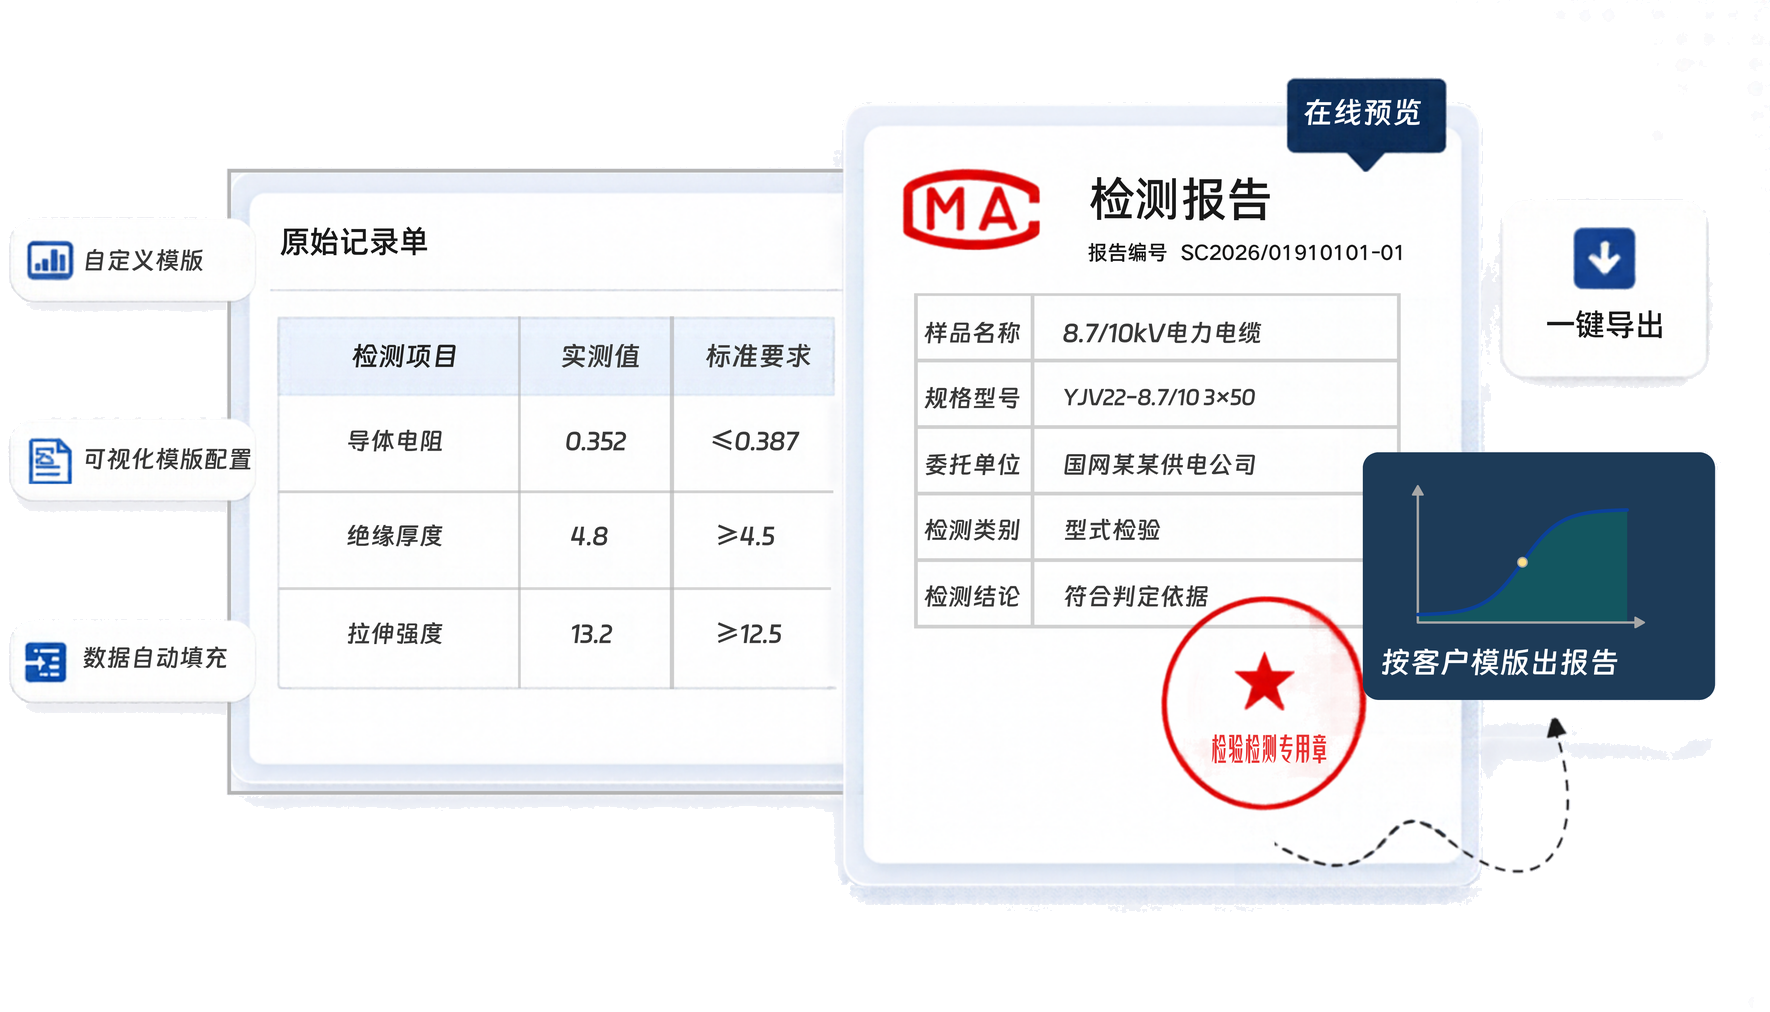
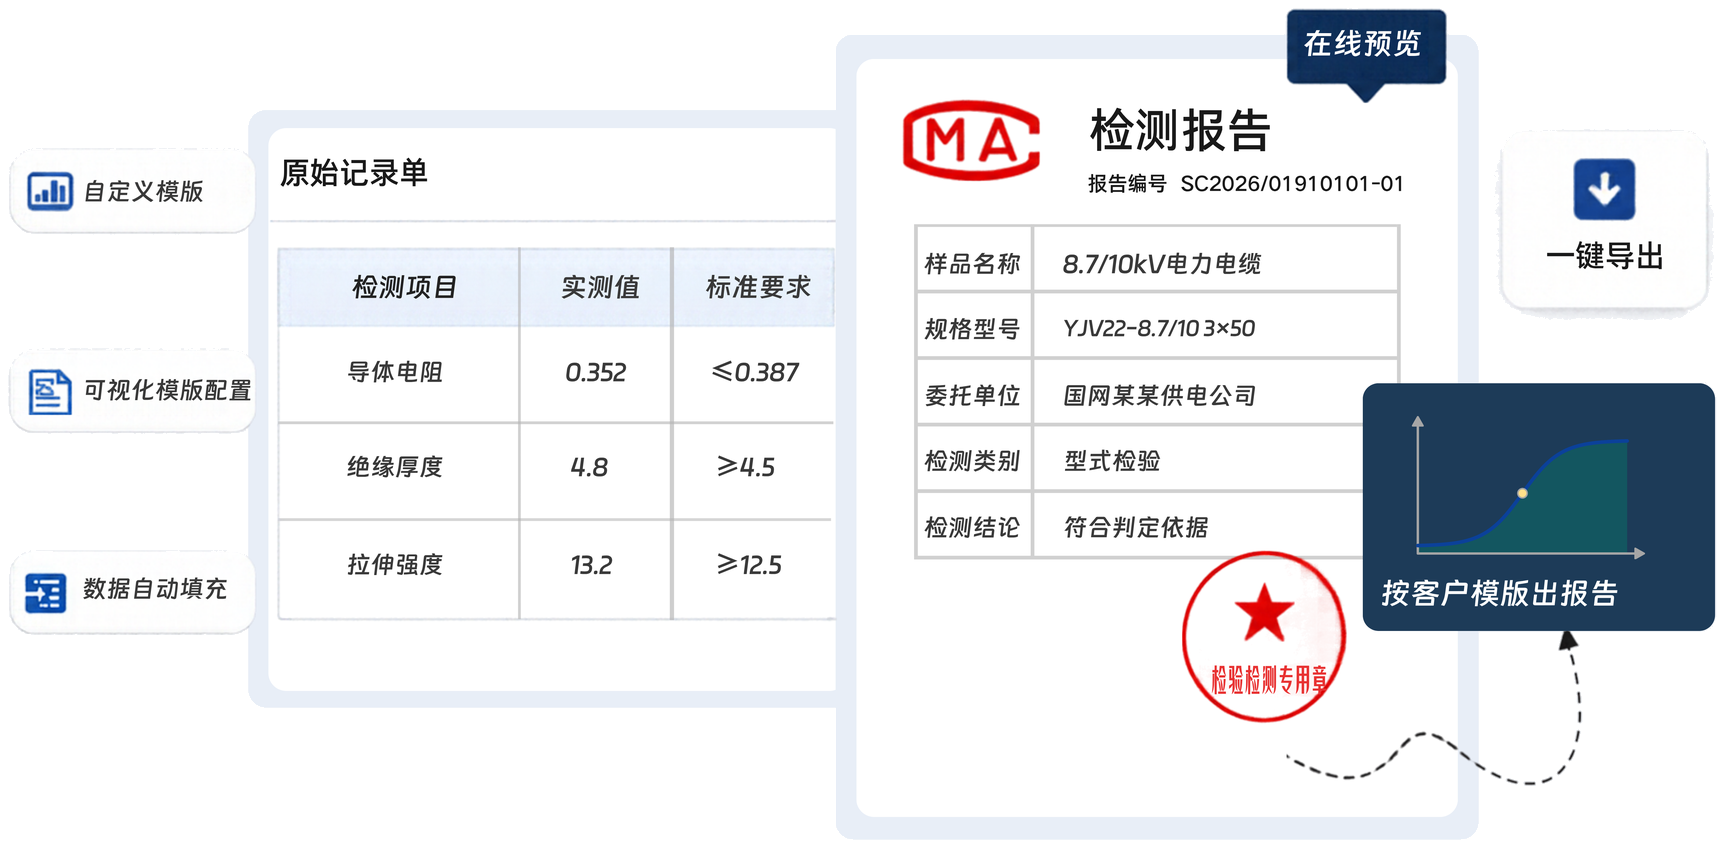
feat: 优势3换成新的记录单与报告配图

diff --git a/shucan-lims-brochure.html b/shucan-lims-brochure.html
@@ -497,7 +497,7 @@
             </ul>
           </div>
           <div class="visual">
-            <img class="illu" src="assets/brochure/14-template.png?v=svg" alt="左侧原始记录单列出导体电阻、绝缘厚度和拉伸强度。右侧检测报告带 MA 标识和检验检测专用章，并标出在线预览、一键导出和按客户模版出报告。" />
+            <img class="illu" src="assets/brochure/14-template.png?v=svg2" alt="左侧原始记录单列出导体电阻、绝缘厚度和拉伸强度。右侧检测报告带 MA 标识和检验检测专用章，并标出在线预览、一键导出和按客户模版出报告。" />
           </div>
         </article>
         <article class="adv" id="adv-trace">
